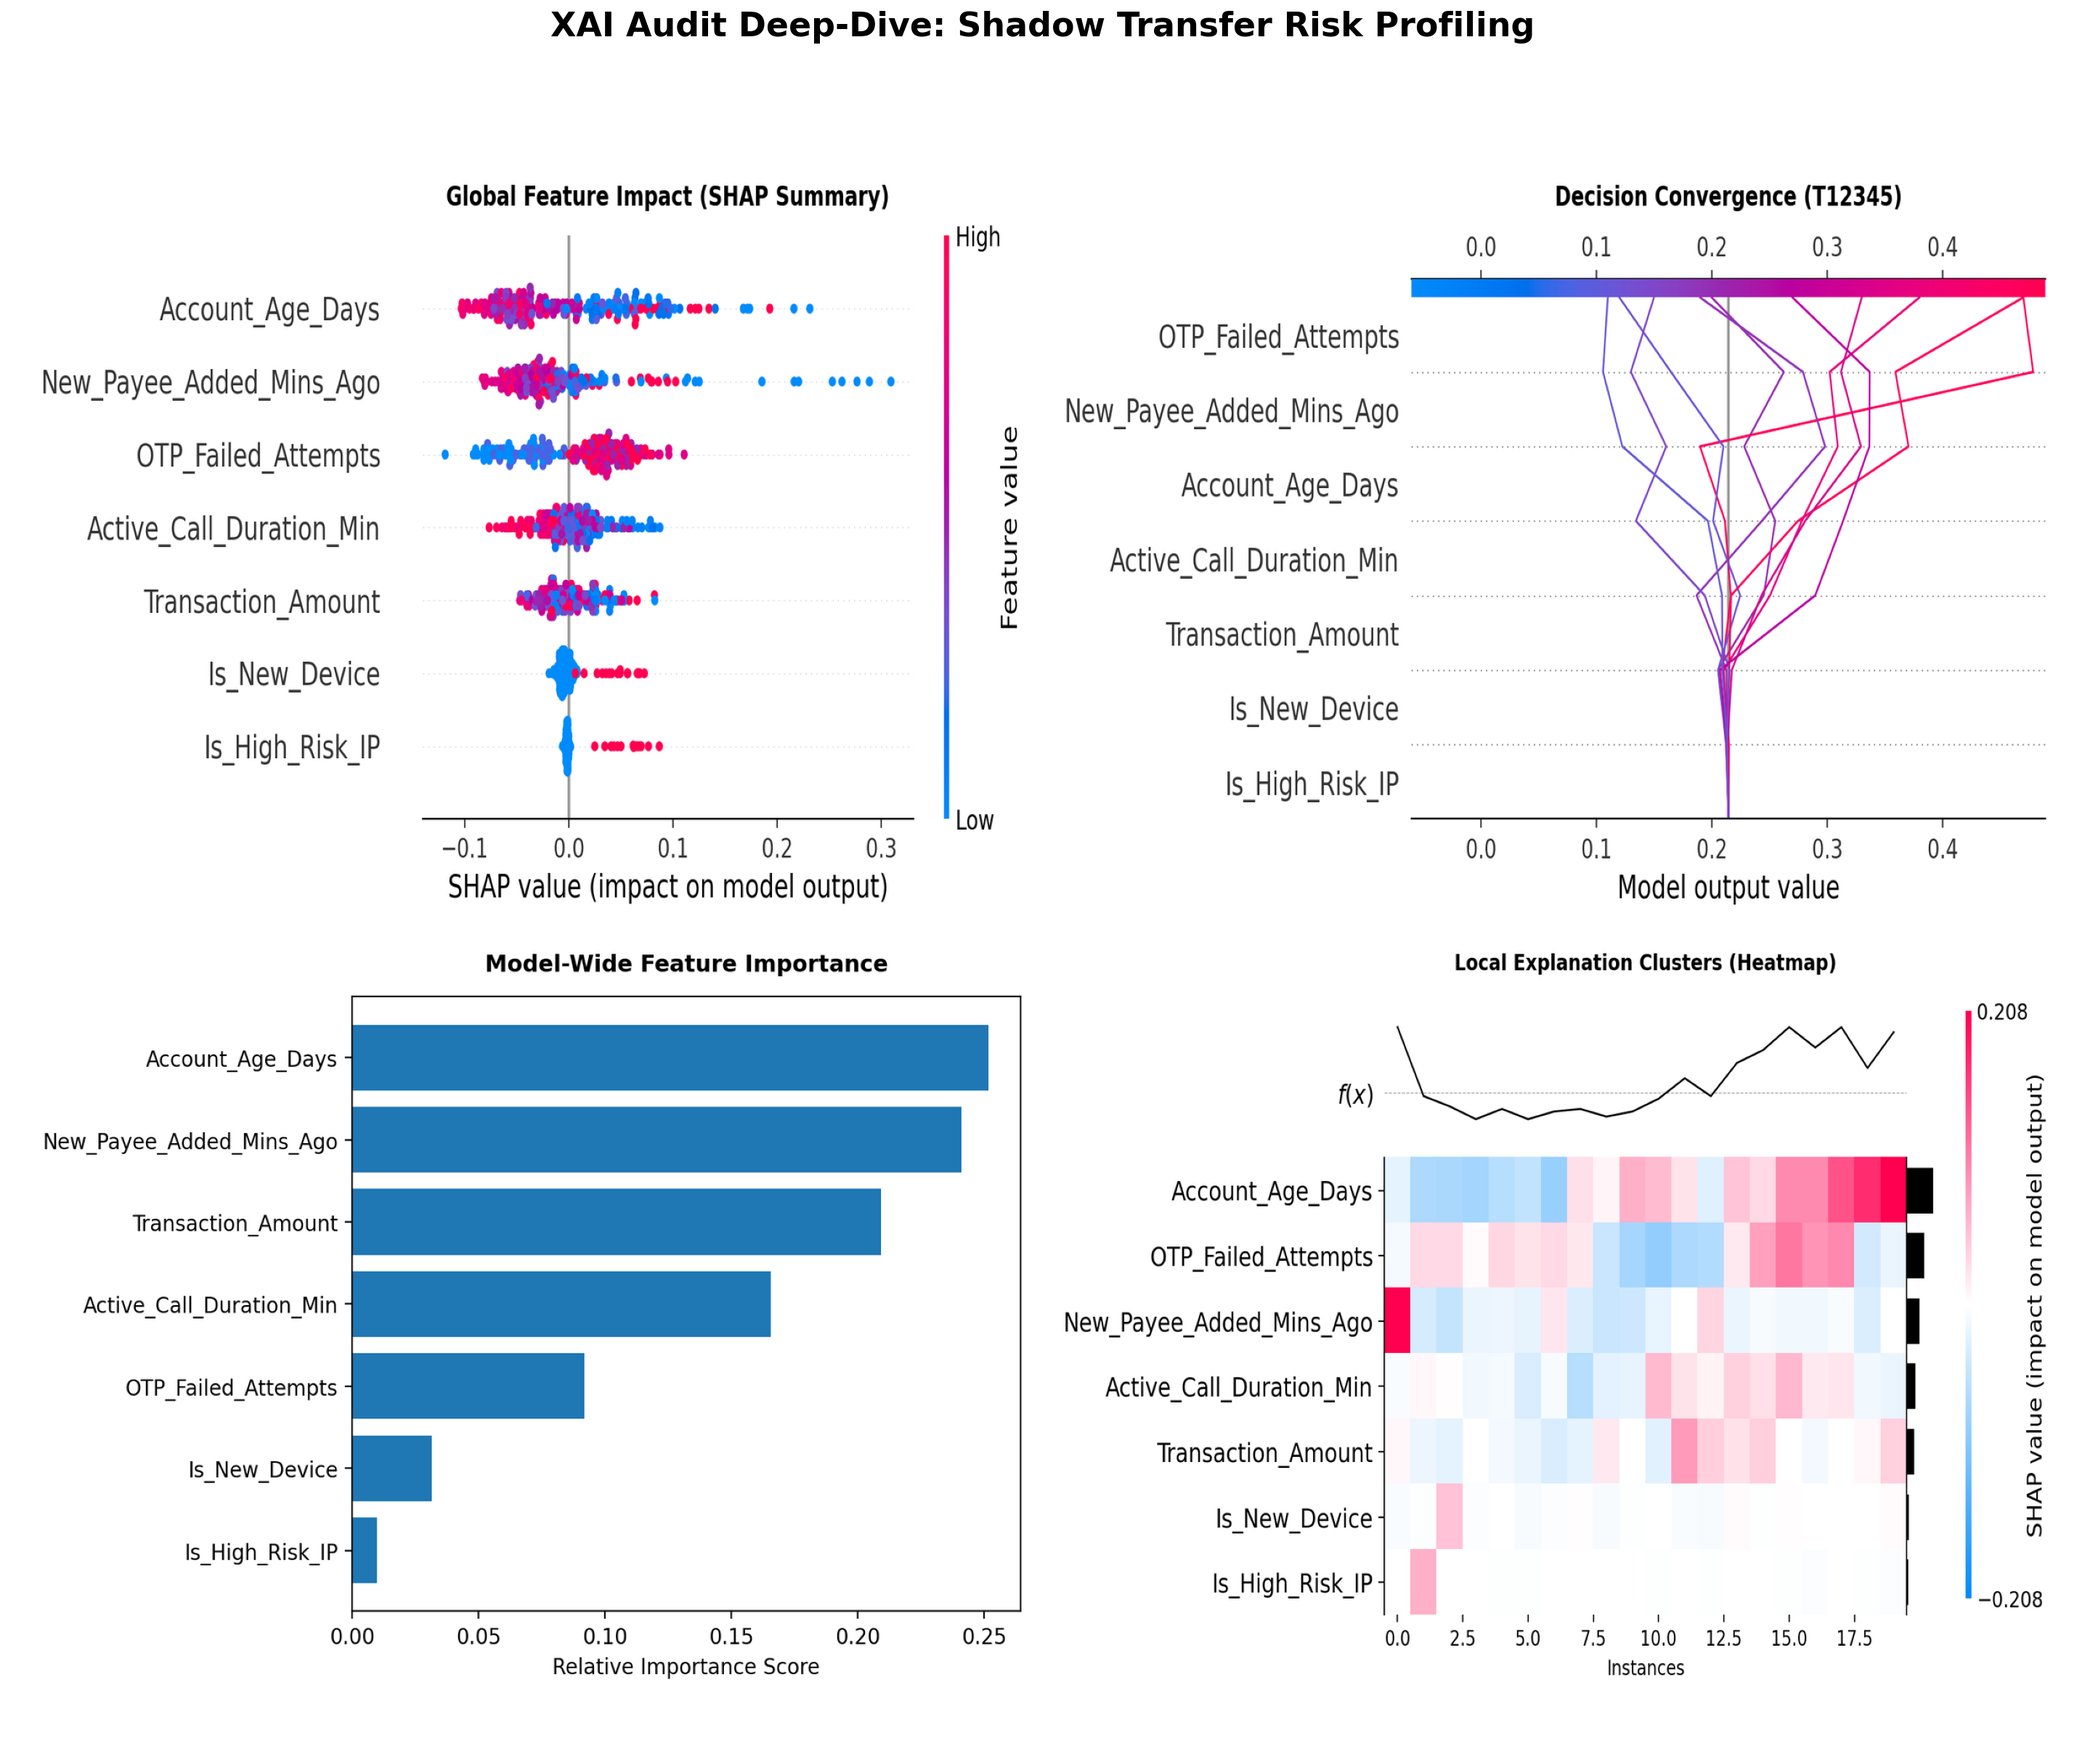
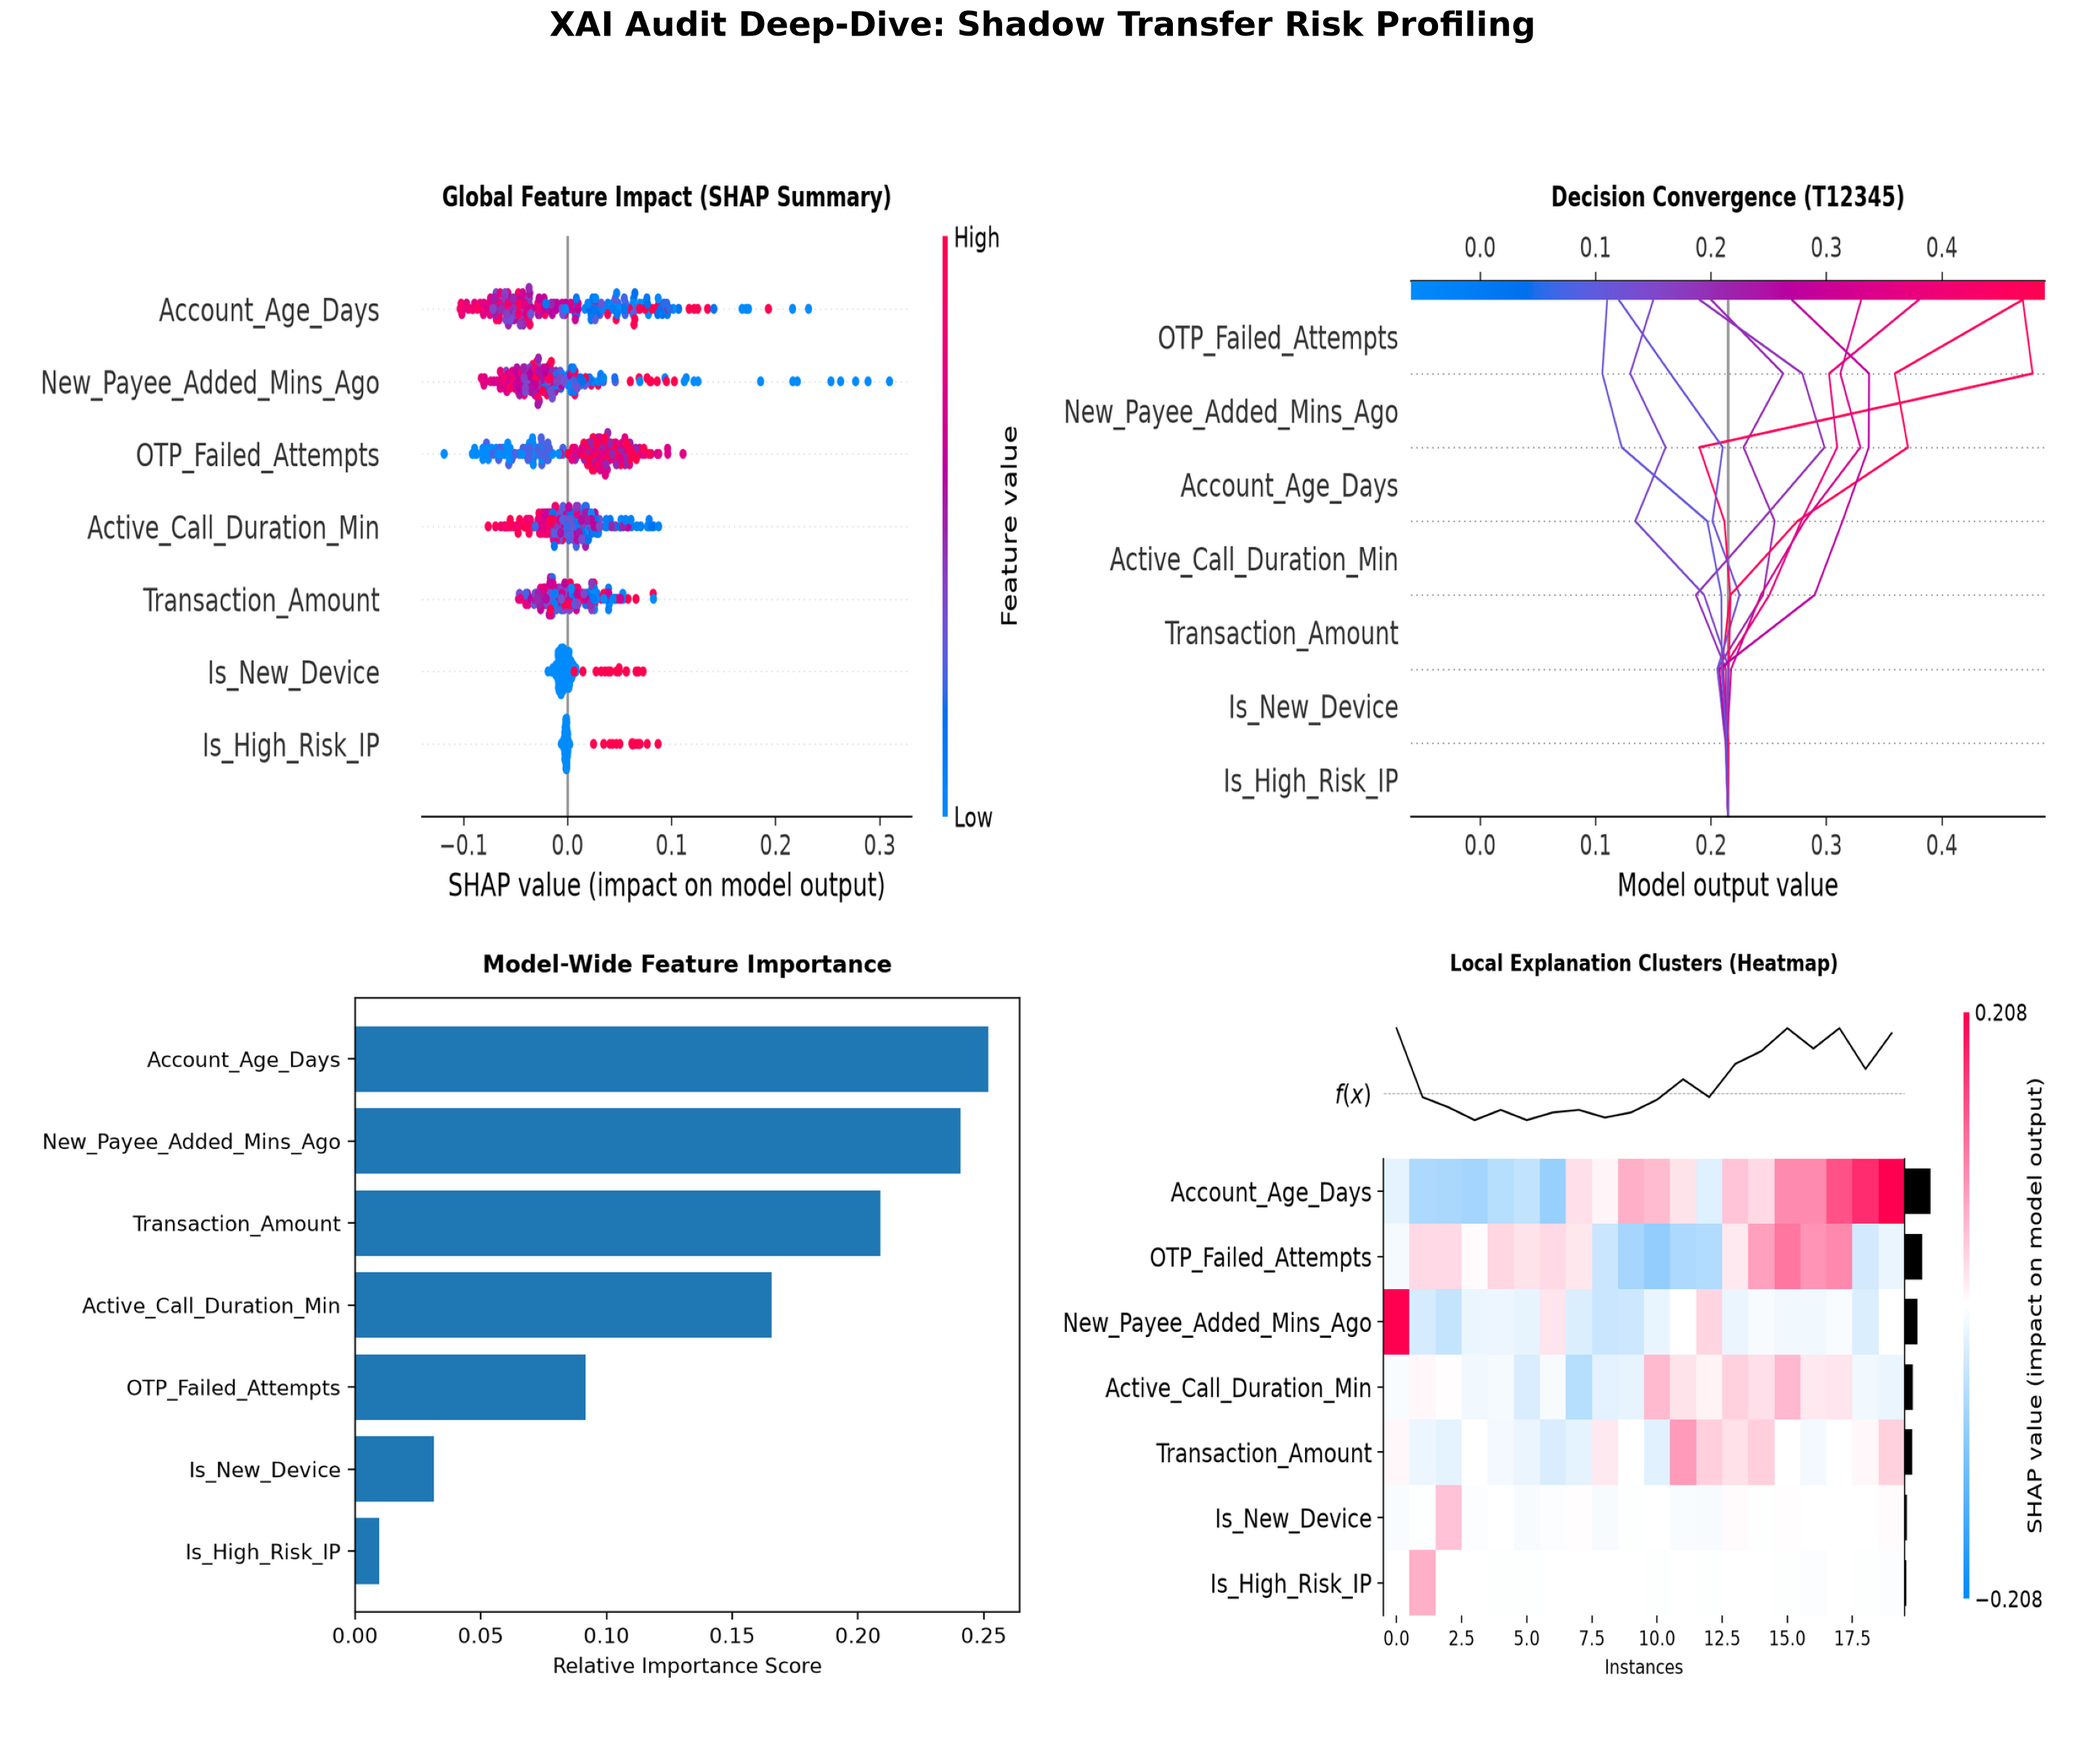
Priority queue location fixing

diff --git a/mock_test.py b/mock_test.py
@@ -1,0 +1,52 @@
+import pandas as pd
+import numpy as np
+import joblib
+import os
+from sklearn.preprocessing import StandardScaler
+from sklearn.ensemble import RandomForestClassifier
+
+print("Setting up mock environment for Aryan's Priority Queue test...")
+
+# 1. Ensure directories exist
+os.makedirs("data/raw", exist_ok=True)
+os.makedirs("models", exist_ok=True)
+
+# 2. Generate Dummy Data (100 rows)
+np.random.seed(42)
+n_samples = 100
+
+# Create random amounts (some small, some very large to test the Expected Loss math)
+mock_data = {
+    'Time': np.random.uniform(0, 100000, n_samples),
+    'Amount': np.random.uniform(5, 10000, n_samples), 
+    'Class': np.random.choice([0, 1], p=[0.8, 0.2], size=n_samples) 
+}
+
+# Add the 28 PCA features (V1 to V28) standard in the dataset
+for i in range(1, 29):
+    mock_data[f'V{i}'] = np.random.normal(0, 1, n_samples)
+
+df = pd.DataFrame(mock_data)
+df.to_csv("data/raw/creditcard.csv", index=False)
+print("✅ Created mock data/raw/creditcard.csv")
+
+# 3. Create and Save Scalers
+scaler_amount = StandardScaler()
+df['scaled_amount'] = scaler_amount.fit_transform(df[['Amount']])
+joblib.dump(scaler_amount, "models/scaler_amount.pkl")
+
+scaler_time = StandardScaler()
+df['scaled_time'] = scaler_time.fit_transform(df[['Time']])
+joblib.dump(scaler_time, "models/scaler_time.pkl")
+print("✅ Created mock scalers in models/")
+
+# 4. Train a Dummy Model
+X = df.drop(['Class', 'Time', 'Amount'], axis=1)
+y = df['Class']
+
+model = RandomForestClassifier(n_estimators=10, random_state=42)
+model.fit(X, y)
+joblib.dump(model, "models/fraud_model.pkl")
+print("✅ Created mock models/fraud_model.pkl")
+
+print("\nAll mock files generated successfully! You can now run your priority queue script.")

diff --git a/mock_setup_new.py b/mock_setup_new.py
@@ -1,0 +1,27 @@
+import pandas as pd
+from sklearn.ensemble import RandomForestClassifier
+import joblib
+import os
+
+print("Setting up Mock ML Model for the New Synthetic Data...")
+
+# 1. Load the new synthetic data
+df = pd.read_csv("data/raw/synthetic_bank_fraud.csv")
+
+# 2. Convert text columns (like UPI, IMPS) into numbers so the ML model can read them
+df_processed = pd.get_dummies(df, columns=['Transaction_Type'])
+
+# 3. Separate features from the target
+X = df_processed.drop(['Is_Fraud', 'Transaction_ID'], axis=1)
+y = df_processed['Is_Fraud']
+
+# 4. Train a quick mock model
+model = RandomForestClassifier(n_estimators=10, random_state=42)
+model.fit(X, y)
+
+# 5. Save the model and the column names
+os.makedirs("models", exist_ok=True)
+joblib.dump(model, "models/new_fraud_model.pkl")
+joblib.dump(list(X.columns), "models/model_columns.pkl")
+
+print("✅ Mock Model trained on new cyber-fraud features!")
